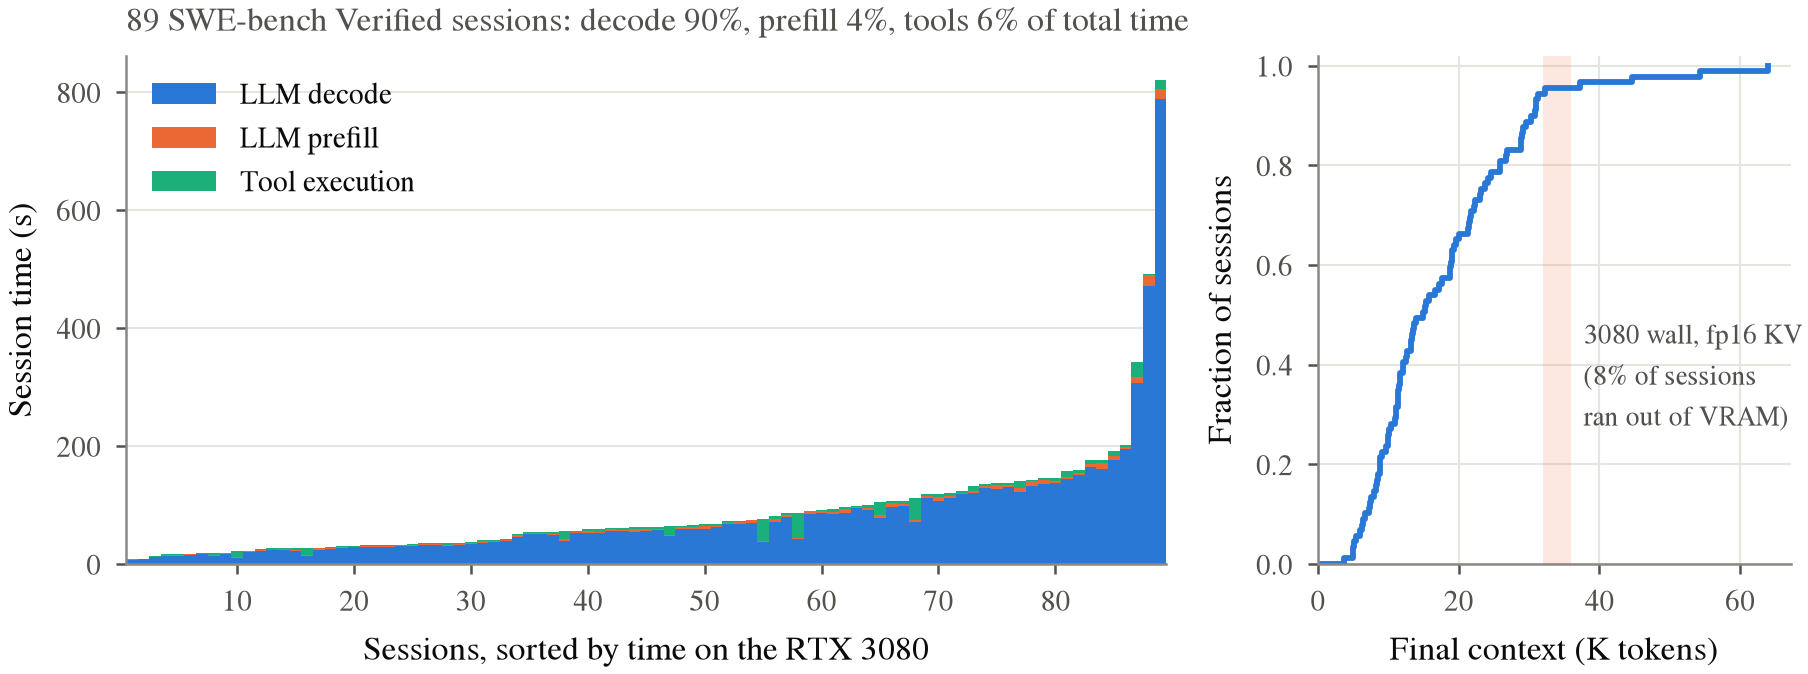
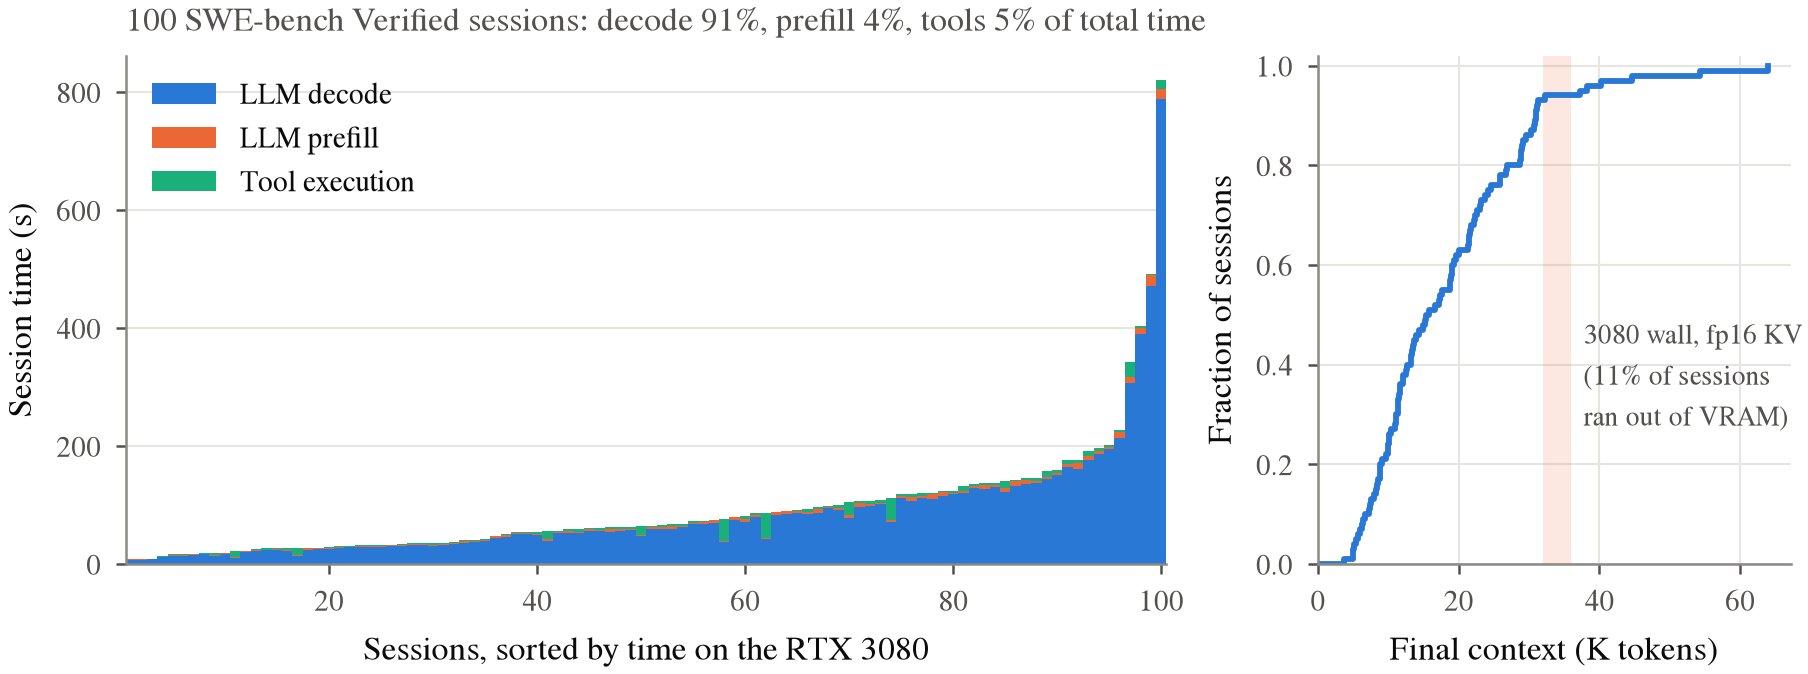
Workload profile on all 100 sessions; figures re-rendered from scripts

diff --git a/docs/results.md b/docs/results.md
@@ -1,12 +1,12 @@
-# Results so far (Oct 22, 2026)
+# Results (Oct 22, 2026)
 
 Every number below is regenerated by the scripts named next to it. The PUM side is model-only (the integrator, VIPER's closed form generalized), with technology numbers from `lib/tech` (several marked VERIFY). The GPU side is measured on this host's RTX 3080.
 
 ## Workload (T, `figs/fig_trace_profile.py`)
 
-- 89 SWE-bench Verified sessions: mini-swe-agent 1.17.5 with mini-coder-4b (Q8_0) on the 3080, a repo-stratified sample. 82 submitted a patch.
-- Time on the 3080 splits into **decode 90%, prefill 4%, tools 6%**. Tool time is net of the ~0.28 s container exec overhead per call; raw times are in `results/traces/swebench_summary.tsv`.
-- Final context: median 15K tokens, max 64K. **8% of sessions (7/89) ran out of VRAM with fp16 KV** (wall at 32–36K) and had to be re-run with int8 KV at 64K. One of them (xarray-4094, 218 turns) outgrew even 64K.
+- **100 SWE-bench Verified sessions**, run with mini-swe-agent 1.17.5 and mini-coder-4b (Q8_0) on the 3080, on a repo-stratified sample. 97 submitted a patch. The 89 sessions collected first are the frozen search/held-out workload (`traces/workload_main.tsv`); the last 11 are the second held-out set.
+- Time on the 3080 splits into **decode 91%, prefill 4%, tools 5%** (all 100 sessions). On the frozen 89 the split is 90/4/6. Tool time excludes the ~0.28 s container exec overhead per call; raw times are in `results/traces/swebench_summary.tsv`.
+- Final context: median 15.5K tokens, max 64K. **11% of sessions (11/100) ran out of VRAM with fp16 KV**: the wall is at 32–36K. They were re-run with int8 KV at 64K. One of them (xarray-4094, 218 turns) outgrew even 64K.
 - Cross-check (G3): replaying each trace through the llama-bench decode curve predicts the measured decode time within −2 to −3%.
 
 ## GPU wall (G1, `figs/fig_gpu_wall.py`)

diff --git a/docs/autopilot.md b/docs/autopilot.md
@@ -93,3 +93,4 @@ Environment:
 - 20:45 Search comparison under a 3,000 mm2 cap (first attempt crashed on a transient `claude -p` failure and lost everything; added retries and incremental saves). Walk 7.16x @ 41; Sonnet 7.15-7.20x in 5-10 evals with readings, 7.20x @ 8 without ($0.92); TPE 1 of 3 seeds; random <= 1.41x; hill climbing <= 0.04x. Same conclusion as unconstrained: readings make the algorithmic search reliable, LLM agents don't need them. fig_search re-rendered for main/effort5/area3000 (GPU label moved above its line).
 - 21:25 mini-coder-4b as the design agent (local llama-server, grammar-constrained JSON). First run unusable: on a repeated proposal the harness re-sent the same prompt and seed. Fixed (tell the agent the design was evaluated, vary the seed, 5 repeats allowed); v0 kept as local_*_v0.json. Result: unconstrained, with readings 1.75/1.32/0.45x vs time only 0.06/0.60/0.04x; under 3,000 mm2 both <= 0.43x. Suggestive only (n=3). Also: `pgrep -f` waiters matched their own command line again and spun; killed. Use `pgrep -f "^python.*script"` style patterns or wait on a PID.
 - 21:40 New figure fig_headline: (a) decode ms/token vs context, 3080 measured (fp16/int8 KV) vs the headline design and the 3.7K mm2 design (21x at 4K, 25x at 32K for the headline); (b) the headline's time per token by term at 4K/16K/64K: crossbar reads are a flat 0.35 ms floor, link transfers grow with context (scores to the nonlinear unit) and dominate the growth.
+- 21:50 Reproducibility pass: tests pass; every figure re-rendered from its script with no content change, except trace_profile, which now covers all 100 sessions (decode 91/prefill 4/tools 5%; 11/100 hit the fp16 wall; 97 submitted). Decision: the workload-characterization figure uses all 100 sessions; every search result stays on the frozen 89.
